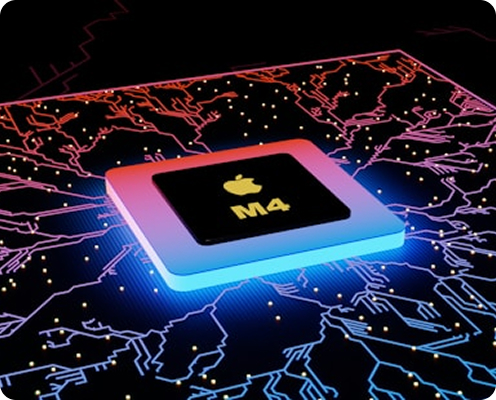
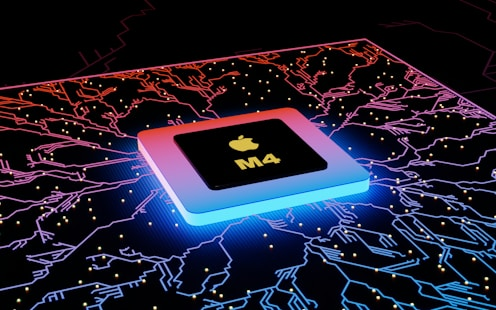
blogs section done

diff --git a/src/sections/Blog.tsx b/src/sections/Blog.tsx
@@ -1,7 +1,97 @@
+import CustomButton from '@/components/CustomButton';
+import { BLOG_POSTS } from '@/lib/constants';
+import Image from 'next/image';
+
 export default function Blog() {
   return (
-    <div>
-      <h3>Blog</h3>
-    </div>
+    <section>
+      <div className="grid grid-cols-1 md:grid-cols-2 gap-y-2 gap-x-4 p-6 md:p-8 lg:p-10 text-center md:text-start">
+        <h2 className="text-h5 md:text-h3 lg:text-[56px] lg:leading-[64px]">
+          Ignitia <span className="handwrite">blog.</span>
+        </h2>
+        <p className="body-text-medium-regular">
+          From security tips to in-depth guides, explore everything you need to
+          know about managing secure user access with Ignitia.
+        </p>
+      </div>
+      <div className="grid grid-cols-1 md:grid-cols-2 bg-white/8 gap-0.25 border-y border-white/8 ">
+        {BLOG_POSTS.slice(0, 1).map(
+          ({ category, title, date, image }: BlogPost) => (
+            <div key={title} className="grid-cols-2 col-span-2 hidden md:grid">
+              <div className="p-10  border border-white/8 border-y-0 bg-[#0B0C0C] relative">
+                <div className="absolute w-full bg-white/4 h-full top-0 left-0" />
+                <Image
+                  src={image}
+                  width={400}
+                  height={200}
+                  className="object-cover w-full h-full rounded-[8px]"
+                  alt={title}
+                />
+              </div>
+              <div className="flex flex-col items-start gap-y-6 p-10 lg:p-20 lg:gap-y-10 bg-[#0B0C0C]">
+                <div className="flex flex-col items-start gap-y-4">
+                  <h6 className="handwrite text-sm not-italic">{category}</h6>
+                  <h4 className="text-h5 lg:text-h4">{title}</h4>
+                </div>
+                <p className="body-text-small-medium">{date}</p>
+              </div>
+            </div>
+          ),
+        )}
+        {BLOG_POSTS.slice(0, 1).map(
+          ({ category, title, date, image }: BlogPost) => (
+            <div
+              className="grid grid-cols-1 p-4 md:p-6 lg:p-10 gap-y-6 md:hidden lg:grid-cols-2 gap-x-6 bg-[#0B0C0C]"
+              key={title}
+            >
+              <Image
+                src={image}
+                width={400}
+                height={200}
+                className="object-cover w-full h-full rounded-[8px]"
+                alt={title}
+              />
+              <div className="flex flex-col items-start gap-y-6">
+                <div className="flex flex-col items-start gap-y-4">
+                  <h6 className="handwrite text-sm not-italic">{category}</h6>
+                  <h4 className="text-h6">{title}</h4>
+                </div>
+                <p className="body-text-small-medium">{date}</p>
+              </div>
+            </div>
+          ),
+        )}
+        {BLOG_POSTS.slice(1).map(
+          ({ category, title, date, image }: BlogPost) => (
+            <div
+              className="grid grid-cols-1 p-4 md:p-6 lg:p-10 gap-y-6 lg:grid-cols-2 gap-x-6 bg-[#0B0C0C]"
+              key={title}
+            >
+              <Image
+                src={image}
+                width={400}
+                height={200}
+                className="object-cover w-full h-full rounded-[8px]"
+                alt={title}
+              />
+              <div className="flex flex-col items-start gap-y-6">
+                <div className="flex flex-col items-start gap-y-4">
+                  <h6 className="handwrite text-sm not-italic">{category}</h6>
+                  <h4 className="text-h6">{title}</h4>
+                </div>
+                <p className="body-text-small-medium">{date}</p>
+              </div>
+            </div>
+          ),
+        )}
+      </div>
+      <div className="flex items-center justify-between gap-2 flex-col md:flex-row p-6 md:px-10">
+        <span className="body-text-small-medium">Page: 01/19</span>
+        <div className="flex items-center gap-3 w-full md:w-auto flex-wrap **:md:h-10">
+          <CustomButton type="secondary">Previous</CustomButton>
+          <CustomButton>Next</CustomButton>
+        </div>
+      </div>
+    </section>
   );
 }

diff --git a/src/lib/constants.ts b/src/lib/constants.ts
@@ -1077,7 +1077,7 @@ export const BLOG_POSTS: BlogPost[] = [
       avatar: '/images/TeamAvatar-1.png',
     },
     date: 'December 24, 2024',
-    image: '/images/blog/matrix-code-security.jpg',
+    image: '/images/BlogImg.jpg',
     excerpt:
       'Caching authentication keys in IAM systems can transform a security architecture from a fortress into a house of cards. Learn why security-first strategies should always take precedence over performance gains.',
     content:
@@ -1195,7 +1195,7 @@ export const BLOG_POSTS: BlogPost[] = [
       avatar: '/images/TeamAvatar-2.png',
     },
     date: 'December 20, 2024',
-    image: '/images/blog/fingerprint-biometric.jpg',
+    image: '/images/BlogImg-1.jpg',
     excerpt:
       'Discover how passkeys are revolutionizing authentication by eliminating passwords while providing stronger security through biometric and device-based authentication.',
     content:
@@ -1264,7 +1264,7 @@ export const BLOG_POSTS: BlogPost[] = [
       avatar: '/images/TeamAvatar-3.png',
     },
     date: 'December 19, 2024',
-    image: '/images/blog/coding-laptop-purple.jpg',
+    image: '/images/BlogImg-2.jpg',
     excerpt:
       'A comprehensive guide to creating effective engineering career ladders that promote growth, clarity, and retention in your development teams.',
     content:
@@ -1330,7 +1330,7 @@ export const BLOG_POSTS: BlogPost[] = [
       avatar: '/images/TeamAvatar-4.png',
     },
     date: 'December 20, 2024',
-    image: '/images/blog/microchip-circuit.jpg',
+    image: '/images/BlogImg-3.jpg',
     excerpt:
       'Learn the most effective strategies for implementing API rate limiting to protect your services from abuse while maintaining optimal performance for legitimate users.',
     content:
@@ -1391,7 +1391,7 @@ export const BLOG_POSTS: BlogPost[] = [
       avatar: '/images/TeamAvatar-5.png',
     },
     date: 'December 18, 2024',
-    image: '/images/blog/ai-microchip.jpg',
+    image: '/images/BlogImg-4.jpg',
     excerpt:
       'Explore how to implement Zero Trust principles in your identity and access management strategy to create a more secure and resilient security posture.',
     content:
@@ -1449,7 +1449,7 @@ export const BLOG_POSTS: BlogPost[] = [
       avatar: '/images/TeamAvatar-6.png',
     },
     date: 'December 17, 2024',
-    image: '/images/blog/golden-padlock.jpg',
+    image: '/images/BlogImg-5.jpg',
     excerpt:
       "Everything you need to know about implementing and managing multi-factor authentication to significantly enhance your organization's security posture.",
     content:
@@ -1513,7 +1513,7 @@ export const BLOG_POSTS: BlogPost[] = [
       avatar: '/images/TeamAvatar-7.png',
     },
     date: 'December 16, 2024',
-    image: '/images/blog/cloud-icon-well.jpg',
+    image: '/images/BlogImg-6.jpg',
     excerpt:
       'Stay ahead of evolving compliance requirements with our comprehensive guide to cloud security standards and best practices for 2024.',
     content:
@@ -1573,7 +1573,7 @@ export const BLOG_POSTS: BlogPost[] = [
       avatar: '/images/TeamAvatar-8.png',
     },
     date: 'December 15, 2024',
-    image: '/images/blog/laptop-keyboard-typing.jpg',
+    image: '/images/BlogImg-7.jpg',
     excerpt:
       'Learn how to balance security requirements with developer productivity by implementing IAM solutions that developers actually want to use.',
     content:
@@ -1633,7 +1633,7 @@ export const BLOG_POSTS: BlogPost[] = [
       avatar: '/images/TeamAvatar-9.png',
     },
     date: 'December 14, 2024',
-    image: '/images/blog/security-layers.jpg',
+    image: '/images/BlogImg-8.jpg',
     excerpt:
       'Discover the essential components of a robust identity governance framework that ensures compliance, security, and operational efficiency.',
     content:
